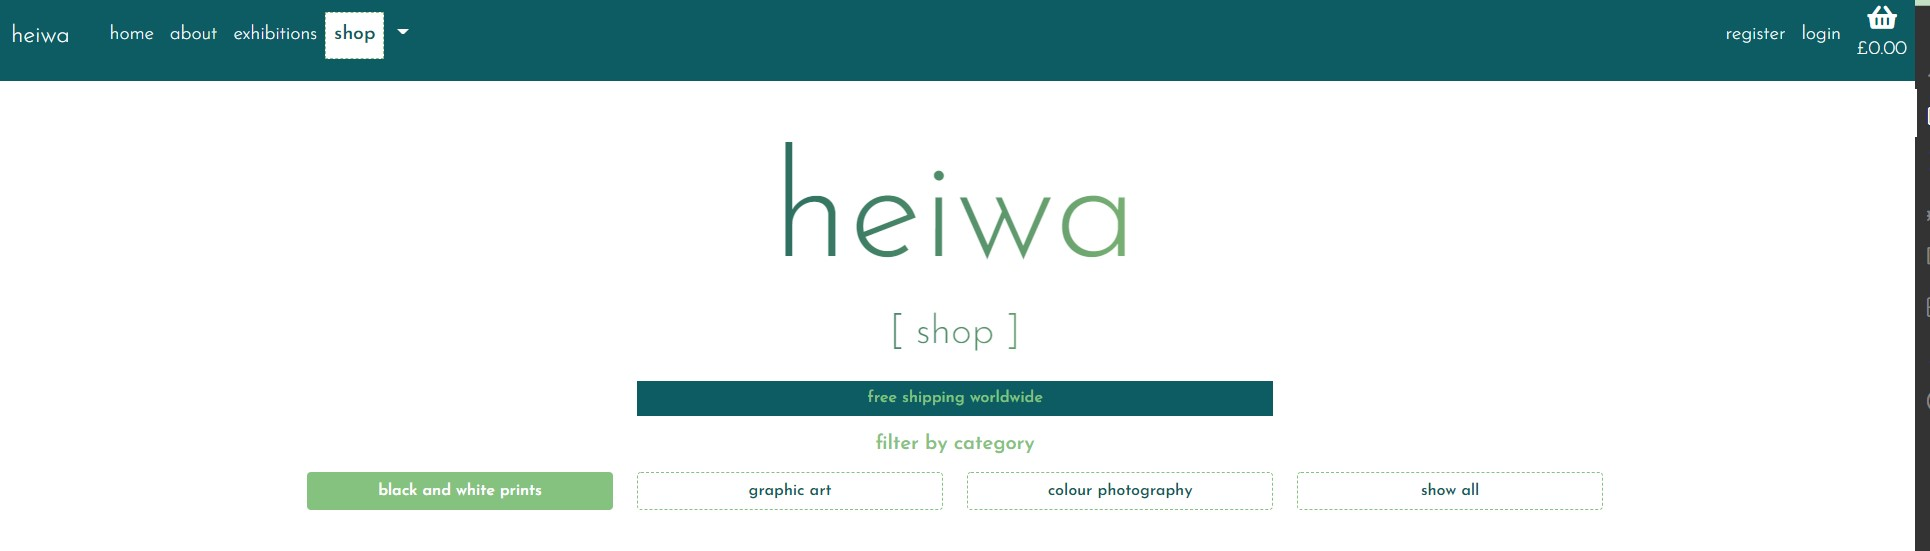
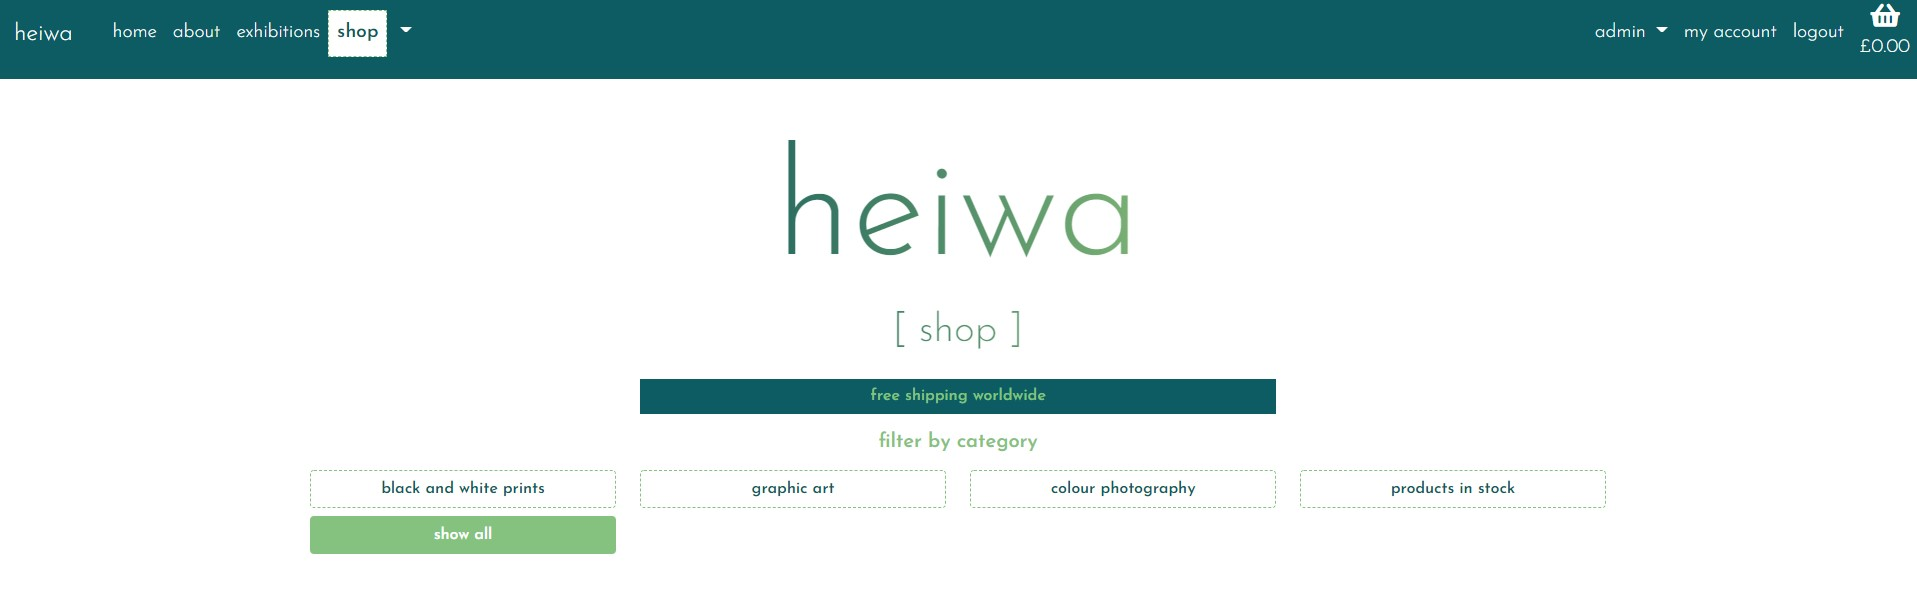
Fix grammar errors across README and MANUAL-TESTING. Add correct db schema image.

diff --git a/MANUAL-TESTING.md b/MANUAL-TESTING.md
@@ -6,26 +6,25 @@
 
 1. As a **user** I can intuitively navigate through the site so that I can view desired content.
 2. As a **user** I can find a navigation bar and footer so that I can see what content there is on the website.
-
 3. As a **user** I can get key information about the gallery from the landing page so that I can spend less time having to search for information.
 
 
-- The navigation bar remains at the top constantly so it can always be seen by the user. Each page is clearly named and there are dropdowns for subsections of the website so that there isn't too much information in the navbar.
+- The navigation bar is fixed at the top of the screen, meaning it is always seen by the user, allowing the user to navigate through the content easily & intuitively. Each nav link is named with an obvious link to the page content, for the shop and admin links there are dropdowns for subsections of the website so that there isn't too much information in the navbar.
 
 ![](assets/images/nav-bar-laptop.jpg)
 
 
-- The footer is at the bottom of the page but isn't fixed and contains key information about the gallery. Contact details, opening times, social media links & address are items that will be frequently searched for by a user, so placing them in the footer makes it easier to find.
+- The footer is at the bottom of the page but isn't fixed and contains key information about the gallery. Contact details, opening times, social media links & the gallery address are all items that will be frequently searched for by a user, so placing them in the footer makes them easier to find thus ensuring that the user can obtain key information quickly.
 
 ![](assets/images/laptop-footer.jpg)
 
 4. As a **user** I am notified about any changes I have made so that I have a clear understanding of what has been completed/updated/failed.
 
-- I have used bootstrap toasts to display messages to the user at various points, the success toast is used often and when adding a product to the basket also displays a short basket overview:
+- I have used bootstrap toasts to display messages to the user at various points throughout their customer journey. The success toast is used often and when adding a product to the basket also displays a short basket overview:
 
 ![](assets/images/add-to-basket-toast.jpg)
 
-- I have also used info, warning and error toasts to display different messages:
+- I have also used info, warning and error toasts to display various other messages; this ensures the user has awareness of any changes that have been made or have been unsuccessful:
 
 ![](assets/images/info-toast.jpg)
 ![](assets/images/not-authorised-toast.jpg)
@@ -34,23 +33,23 @@
 
 5. As a **user** I can access the website on both mobile and desktop so that I can view the information regardless of my location.
 
-- As I have used bootstrap the website is entirely responsive and can be viewed on any size screen and have the same functionality. 
+- As I have used bootstrap the website is entirely responsive and can be viewed on any size screen and have the same functionality; however, some non-critical content has been hidden on smaller screens to enhance the user experience.
 
 ![](assets/images/mobile-menu.jpg)
 
 ![](assets/images/mobile-footer.jpg)
 
-- I have also taken advantage of JQuery datatables which collapse the tables on smaller screens so the user doesn't have to scroll across, 
+- I have also taken advantage of JQuery data tables which will collapse a table, with a specified class name, on smaller screens so the user doesn't have to scroll across. I have implemented this on both the product and exhibition management pages and also on the basket overview.
 
 ![](assets/images/basket-mobile.jpg)
 
-- & then clicking on the green icon expands the table row to show all of the columns
+-  The user is then able to click on the green icon to expand the table row to show all of the information:
 
 ![](assets/images/basket-mobile-expanded.jpg)
 
 ### **Epic 2 - Products**:
 
-5. As a **user** I can view all products that are in stock and available to buy.
+5. As a **user** I can view all products that are in stock and available to buy
 
 - Using the `shop` nav link the user is directed to the `all_products` page, this is a view that returns all products in the product model.
 
@@ -65,11 +64,11 @@
 
 7. As a **user** I can filter the prints by categories to have more control over what I'm viewing.
 
-- At the top of the products page there are four buttons that will allow the user to filter by category:
+- At the top of the products page are four buttons that allow the user to filter by category and a 'products in stock' button that only shows the products that are available to buy:
 
 ![](assets/images/category-filters.jpg)
 
-- clicking on one of these buttons sends a query to the database and returns the relevant products using the style id:
+- Clicking on one of these buttons sends a query to the database and returns the relevant products using the style id or the 'in_stock' field:
 
 ![](assets/images/filtered-products.jpg)
 
@@ -83,7 +82,7 @@
 
 9. As a **user** I am able to process orders by making a card payment.
 
-- Using Stripe, each time the checkout page is loaded a payment intent is created and a card element is injected in to the page. Using the test card details from the Stripe documentation you can test the checkout process, if successful a `'Payment success!'` message is displayed above the pay now button and the user is redirected to the checkout success page.
+- Using Stripe, each time the checkout page is loaded a payment intent is created and a card element is injected into the page. Using the test card details from the Stripe documentation you can test the checkout process, if successful a `'Payment success!'` message is displayed above the pay now button and the user is redirected to the checkout success page.
 
 ![](assets/images/success-payment.jpg)
 
@@ -99,13 +98,13 @@
 
 11. As a **user** I can only add prints to my basket that are in stock so that I can avoid later frustration if my order cannot be fulfilled.
 
-- As the add to basket button is removed the user will not easily be able to add any product to the basket but if they were to try and overwrite the url by changing the product pk passed then I have used defensive programming so that if the required data is not passed through the post requets the user is shown an error message and they are redirected back to the all_products page.
+- As the `add to basket` button is removed the user is not easily able to add any product to the basket. However, if they were to try and overwrite the URL by changing the product pk passed, then I have used defensive programming so that if the required data is not passed through the post request the user is shown an error message and they are redirected back to the all_products page.
 
 ![](assets/images/add-without-quantity-error.jpg)
 
 12. As a **user** I receive order confirmations to be sure my order has been processed.
 
-- Upon submitting the payment form, if successful and the user is redirect to checkout success then `send_confirmation_email` function is called which uses the email address from the order form, this function sends an email that has the order total, shipping details, order number and products purchased in:
+- Upon submitting the payment form, if successful and the user is redirected to checkout success then the `send_confirmation_email` function is called, which uses the email address from the order form, this function sends an email that has the order total, shipping details, order number and products purchased in:
 
 ![](assets/images/order-confirmation.jpg)
 
@@ -113,11 +112,11 @@
 
 13. As an **admin user** I can log in so that I can access the site's backend.
 
-- Using a specified superuser account an admin user can access the `/admin` url and login, they will then be taken to the 'Django Administration' page:
+- Using a specified superuser account an admin user can access the `/admin` URL and login, they will then be taken to the 'Django Administration' page:
 
 ![](assets/images/django-admin.jpg)
 
-14. As an **admin user** I am able to login to see the product management page so that I can make changes in the front end.
+14. As an **admin user** I am able to log in to see the product management page so that I can make changes in the front end.
 
 - Once logged in as an admin superuser the navbar displays `admin`, clicking this shows the below menu:
 
@@ -135,15 +134,15 @@
 
 ![](assets/images/crud-functionality.jpg)
 
-- The `edit` button takes the user to a specified edit page, there is form pre-populated using the product instance and the user is able to update the information and submit the form. The quantity in stock field is hidden on this form to ensure the user can only edit the stock level using the stock form. 
+- The `edit` button takes the user to a specified edit page, there is a form pre-populated using the product instance and the user can update the information and submit the form. The quantity in stock field is hidden on this form to ensure the user can only edit the stock level using the stock form. 
 
 ![](assets/images/edit-product.jpg)
 
-- The `delete` button take the user to specified delete page for the product, this page displays the product image, name and a delete buttom.
+- The `delete` button takes the user to a specified delete page for the product, this page displays the product image, name and a delete button.
 
 ![](assets/images/delete-prodcut.jpg)
 
-- If the user clicks `delete product` then a modal pops up to ensure that the user definitely wants to delete the product
+- If the user clicks `delete product` then a modal pops up to ensure that the user definitely wants to delete the product and has not pressed this by mistake
 
 ![](assets/images/delete-modal.jpg)
 
@@ -153,7 +152,7 @@
 
 ### **Epic 5 - User Account**:
 
-17. As a **user** I can register & log in so that I can view my orders/wishlist.
+17. As a **user** I can register & login so that I can view my orders/wishlist.
 
 - Once a user is logged in, using the `my account` link in the navbar will bring the user to their account overview page. From here they can access either their personal details, previous orders or wishlist.
 
@@ -161,28 +160,28 @@
 
 18. As a **user** I can easily see if I'm logged in or not so that I can choose to log in or log out.
 
-- The navbar links on the right hand side change depending on the authentication state of the user, if logged in then `my account` & `logout` shows:
+- The navbar links on the right-hand side change depending on the authentication state of the user, if logged in then `my account` & `logout` show:
 
 ![](assets/images/logged-in.jpg)
 
-- and if the user is not authenticated then `register` and `login` are displayed. This differentiation makes is very clear and obvious to the user if they are currently logged in:
+- and if the user is not authenticated then `register` and `login` are displayed. This differentiation makes it very clear and obvious to the user if they are currently logged in:
 
 ![](assets/images/logged-out.jpg)
 
-19. As a **user** I am prompted to register for an account so that I can create an account and receive the benefits from having a profile.
+19. As a **user** I am prompted to register for an account so that I can create an account and receive the benefits of having a profile.
 
-- The register link in the navbar is the first prompt, if the user clicks to log in this page will prompted to register for an account if they don't already have one:
+- The register link in the navbar is the first prompt, if the user clicks to log in this page will prompt them to register for an account if they don't already have one:
 
 ![](assets/images/sign-in-prompt.jpg)
 
-- On the checkout page, if the user isn't logged in there is a paragraph that prompts the user to register or login to save their details for next time:
+- On the checkout page, if the user isn't logged in there is a paragraph that prompts the user to register or log in to save their details for next time:
 
 ![](assets/images/register-prompt-checkout.jpg)
 
 20. As a **user** I can log in so that I can auto-populate forms with my information on the site.
 21. As a **user** I can save my default billing/shipping details so that I can save time making my next purchase.
 
-- When a user first creates an account and log in none of their information will be saved to their profile yet; but after completing the user profile form or making their first order (with the save details box ticked) then both the user profile form and the order form will be pre-filled with their details:
+- When a user first creates an account and logs in none of their information will be saved to their profile yet, but after completing the user profile form or making their first order (with the save details box ticked) then both the user profile form and the order form will be pre-filled with their details:
 
 ![](assets/images/pre-filled-form.jpg)
 
@@ -190,9 +189,9 @@
 
 ### **Epic 6 - Exhibition Information**:
 
-23. As an **admin user** I can add/edit/delete exhibition to be displayed on the website.
+23. As an **admin user** I can add/edit/delete exhibitions to be displayed on the website.
 
-- The exhibitions functionality works in the same way as products, there are `add exhibition` and `exhibition management` in the admin dropdown menu. `add exhibition` takes the admin user to the the add exhibition page, which is comprised of a form:
+- The exhibitions functionality works in the same way as products, there are `add exhibition` and `exhibition management` in the admin dropdown menu. `add exhibition` takes the admin user to the add exhibition page, which is comprised of a form:
 
 ![](assets/images/add-exhibition.jpg)
 
@@ -224,13 +223,13 @@
 
 ### **Epic 7 - Marketing**:
 
-25. As a **user** I can sign up to a newsletter to up to date information regarding exhibitions and items for sale.
+25. As a **user** I can sign up for a newsletter to receive up to date information regarding exhibitions and items for sale.
 
-- In the footer there is a mailchimp sign up form to allow the user to sign up:
+- In the footer there is a MailChimp sign up form to allow the user to sign up:
 
 ![](assets/images/laptop-footer.jpg)
 
-- If the user is already present in the subscribed list then the form is hidden and a thank you message display instead:
+- If the user is already present in the subscribed list then the form is hidden and a thank you message is displayed instead:
 
 ![](assets/images/already-subscribed.jpg)
 
@@ -238,7 +237,7 @@
 
 26. As an **admin user** I conducted research and implemented SEO keywords to increase traction to my website.
 
-- During the planning stage, SEO research was conducted to decide which keywords would help with SEO's:
+- During the planning stage, SEO research was conducted to decide which keywords would help with SEOs:
 
 ![](assets/images/SEO%20research.jpeg)
 

diff --git a/README.md b/README.md
@@ -117,7 +117,7 @@ In order to achieve the desired user & business goals, the following features wi
 
 I opted to connect to the Heroku Postgres database from the beginning which is provided by Heroku as an add-on. For almost all of the apps (aside from home) I have created models for, the Entity-Relationship Diagram below shows how the database models relate to each other: 
 
-![Database Schemas can be found here](assets/images/database-schema.jpg)
+![Database Schemas can be found here](assets/images/planning/HEIWA_DB_SCHEMA.jpeg)
 
 #### **User Account**
 
@@ -186,7 +186,7 @@ Users are also able to subscribe to receive the gallery's newsletter, using the 
 
 ![](assets/images/mailchimp-form.jpg)
 
-If the user is logged in and has previously subscribed then the form is hidden to provide clarity to the user. I have achieved this using a call to the [MailChimp API](https://mailchimp.com/developer/marketing/api/list-members/) to retrieve a list of all of the emails currently registered if the email address of the logged-in user is present in this list then the following message is shown;
+If the user is logged in and has previously subscribed then the form is hidden to provide clarity to the user. I have achieved this using a call to the [MailChimp API](https://mailchimp.com/developer/marketing/api/list-members/) to retrieve a list of all of the emails currently registered if the email address of the logged-in user is present in this list then the following message is shown:
 
 ![](assets/images/already-subscribed.jpg)
 
@@ -195,11 +195,11 @@ If the user is logged in and has previously subscribed then the form is hidden t
 
 I conducted SEO research to decide on the keywords and phrases that would be used across the website, I wrote a list of as many words and phrases I could think of and then using Google, I searched by these keywords to see the sort of websites that were returned. 
 
-![](assets/images/art-gallery-google.jpg)
+![](assets/planning/art-gallery-google.jpg)
 
 I used this research to condense my list:
 
-![](assets/images/SEO-research.jpg)
+![](assets/planning/SEO-research.jpg)
 
 In addition to my research, once the bulk of the website had been built I used an online tool called [Semrush](https://www.semrush.com/) which provided a report on ways that I could improve my SEO. This report showed that each page needed its own title so I implemented this feedback. I chose the keep the meta tags and descriptions the same across each page as the content wouldn't have varied too much and there would have been a lot of replication.
 
@@ -452,6 +452,8 @@ All of my code has been validated using an online validator specific to the lang
 
 - [Pep8](http://pep8online.com/)
     - Used to test my Python code for any issues or errors; please note when using inline Flake8 linter some errors flagged up that didn't flag in pep8 and have therefore been left as they are.
+    
+    ![](assets/images/flake8-errors.jpg)
 
 In addition to this I have also used online validators to test the accessibility of my website:
 
